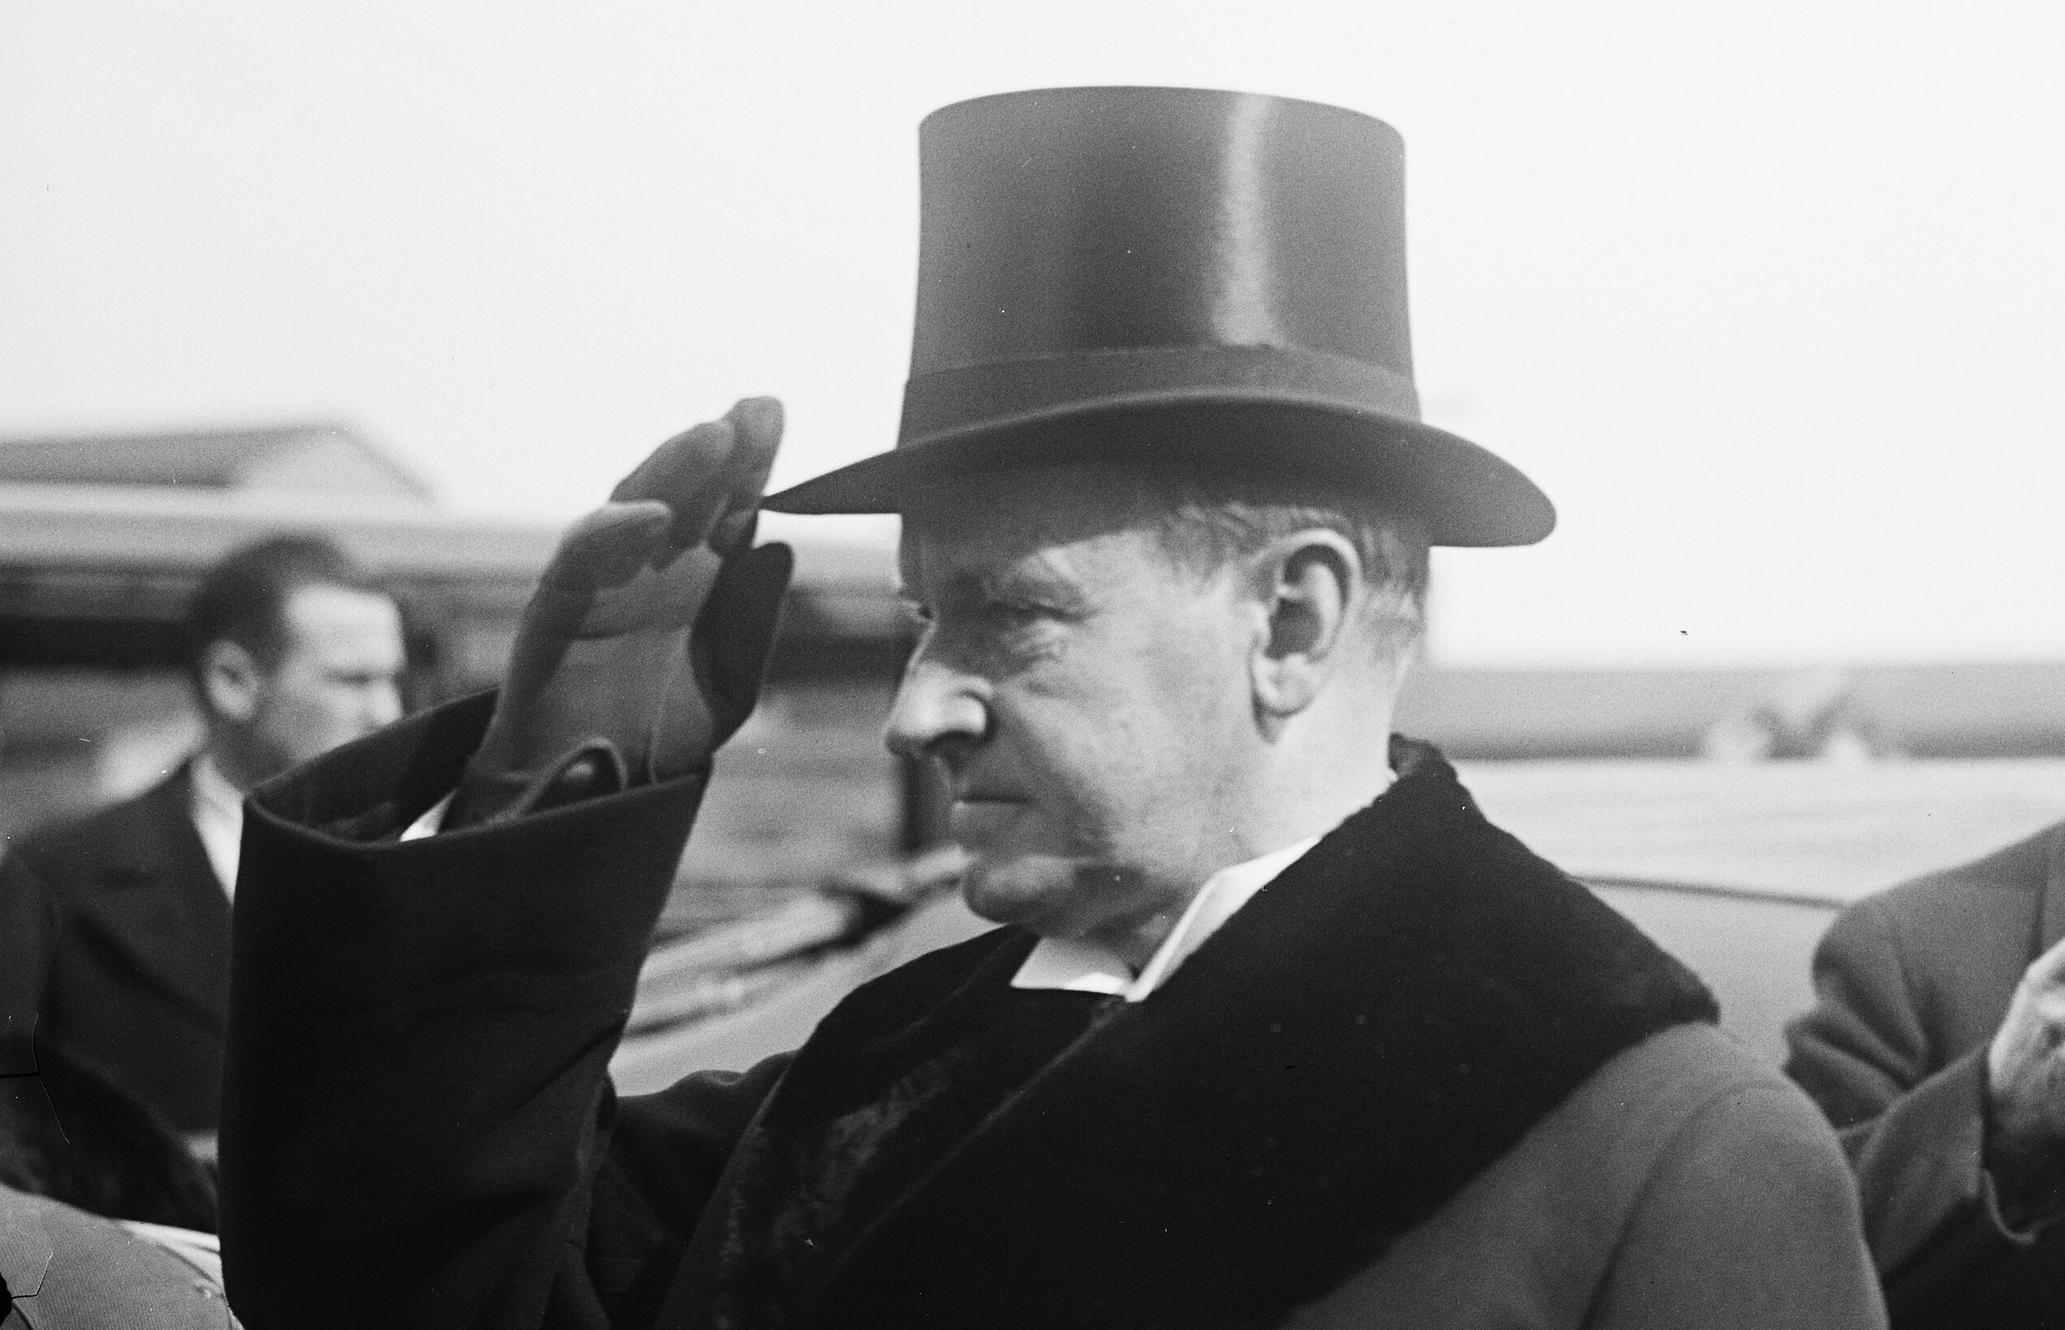
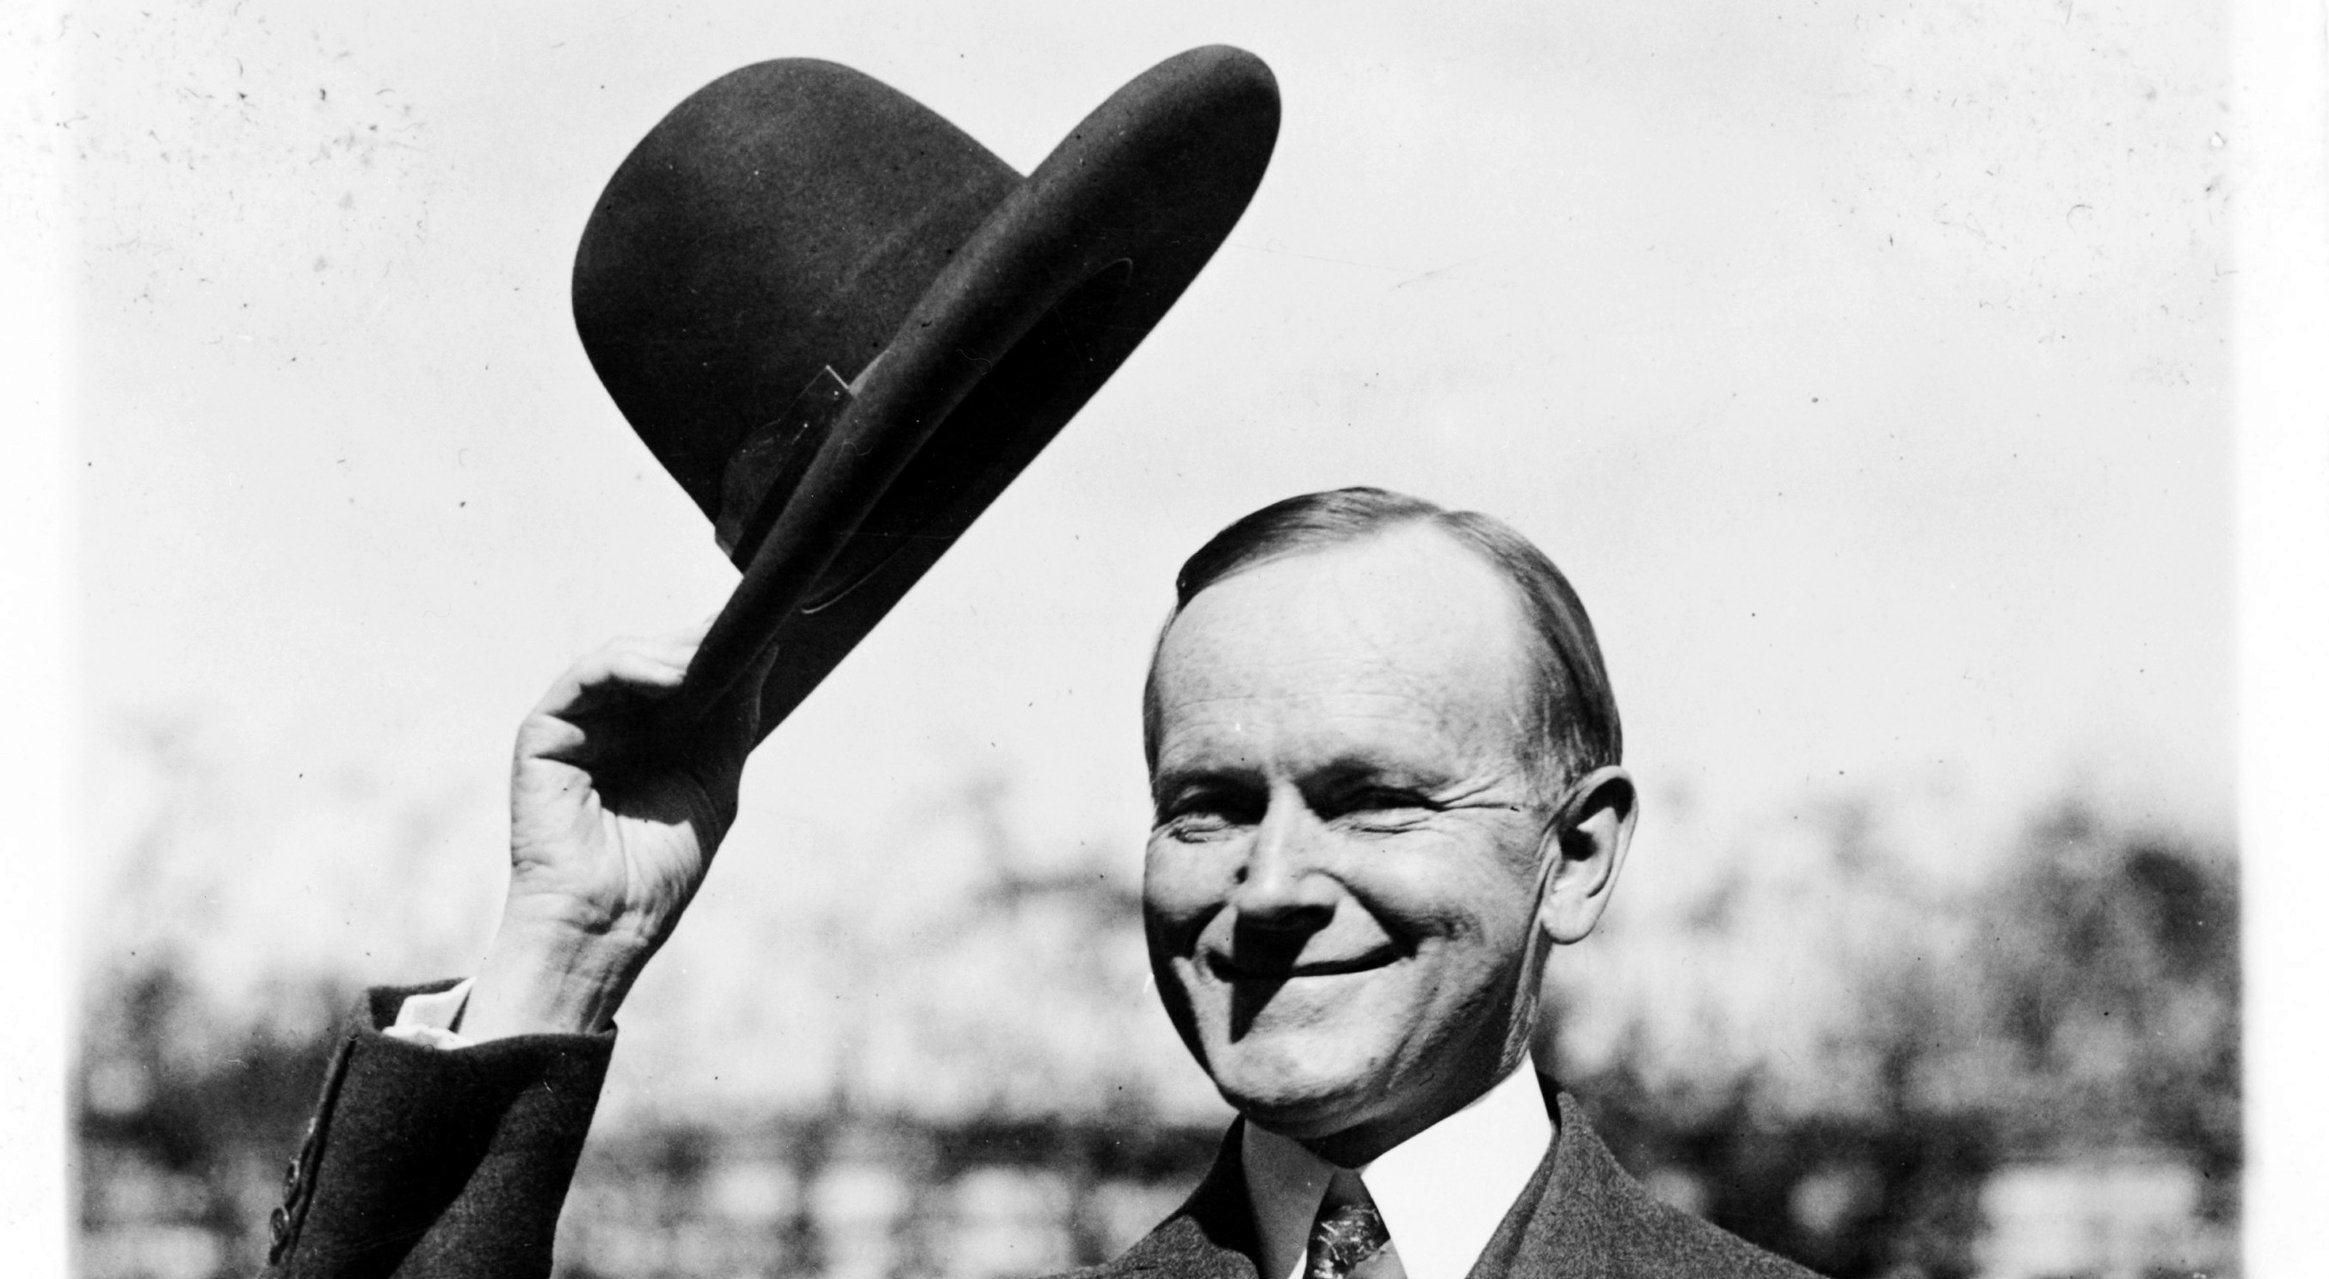
The publisher's weekend changes (10 and 11 October): Draft 5, for the press
Page 1: the box carries commonsense250.news/hear. Page 3: "hill to die on"
as a bold line; a poll on the two paragraph styles. Page 4: Coolidge smiling,
hat raised, 1924 (LoC). Page 5: ShiftAI at the foot of the Teach column.
Page 6: Greenstein in the byline; the mural below the article. Page 7:
spaced paragraphs, the SerenitySpaces aerial between the two ads, a second
starred students box (/earn). Page 8: spaced paragraphs, LIBERTY AND ETHICS,
the Whalers logo. The composer gains subheads, artBottom, an author override
and a page class; the fit check passes.

diff --git a/newspaper-production/editions/2026-10.js b/newspaper-production/editions/2026-10.js
@@ -64,7 +64,7 @@ export const edition = {
           { type: 'article', id: 'conservatarian', size: 's', art: false, kicker: 'Our Purpose', deck: false, grow: true, italic: true, class: 'small' },
           { type: 'box', class: 'stars', html:
             '<p class="byob">Old + new Media Managed by the YOUNGER or the BETTER (bYoB). Hear here!</p>' +
-            '<p class="byob-url">commonsense250.news/join</p>' +
+            '<p class="byob-url">commonsense250.news/hear</p>' +   // forwards to his video (vercel.json)
             '<p>CS 250 welcomes students, paid and volunteer. See p3.</p>' },
           { type: 'article', id: 'hartford-convention', size: 's', art: 'hartford-convention', artHeight: 1.2,
             kicker: 'Coming in 2027', deck: false },
@@ -90,7 +90,7 @@ export const edition = {
     // 3 ---------------------------------------------------------------------------
     {
       areas: ['ice ice imm imm', 'ice ice wha wha'],
-      rows: ['1fr', '3.0in'],
+      rows: ['1fr', '2.75in'],
       modules: [
         { type: 'article', area: 'ice', id: 'ice-deportations', span: 2, size: 'l', dropcap: false,
           caption: 'Federal agents on an ICE enforcement operation in New York, January 2025. ICE photo.', artHeight: 1.75, artPos: 'center 40%' },
@@ -99,14 +99,17 @@ export const edition = {
         // (screens) — and his own wording.
         { type: 'stack', area: 'imm', items: [
           { type: 'article', id: 'immigrant-families', span: 2, size: 'm', grow: true,
-            caption: 'New citizens take the oath, 2023. National Park Service photo.', artHeight: 1.45, artPos: 'center 55%' },
+            caption: 'New citizens take the oath, 2023. National Park Service photo.', artHeight: 1.15, artPos: 'center 55%' },
           { type: 'box', class: 'students', title: 'For Students',
-            art: [ { name: 'students-old', height: 1.5, caption: 'Then: newsboys and newsgirls, Hartford, 1909. Lewis Hine, National Archives.' },
-                   { name: 'students-new', height: 1.5, caption: 'Now: students at their laptops. Photo: Erikareuter, CC BY-SA 4.0.' } ],
+            art: [ { name: 'students-old', height: 1.1, caption: 'Then: newsboys and newsgirls, Hartford, 1909. Lewis Hine, National Archives.' },
+                   { name: 'students-new', height: 1.1, caption: 'Now: students at their laptops. Photo: Erikareuter, CC BY-SA 4.0.' } ],
             html:
             '<p class="big">Join CS250. Spread the word.</p>' +
             '<p>Your words, other influential people’s words. Internships, paid and volunteer, are now offered in media, marketing, finance, sales &amp; “influence”.</p>' +
-            '<p>CS250 staff collaborate each Friday evening. Join us! Email <b>andrew@web4guru.com</b>.</p>' },
+            '<p>CS250 staff collaborate each Friday evening. Join us! Email <b>andrew@web4guru.com</b>.</p>' +
+            // Publisher, 2026-10-10: pages 7 and 8 are set with space between
+            // paragraphs instead of indents, to see which readers prefer.
+            '<p class="poll"><b>A poll:</b> which layout is easier on the eyes, pages 4 and 5, or pages 7 and 8? Tell us at the same address.</p>' },
         ] },
         { type: 'ad', area: 'wha', key: 'aspire-schools' },
       ],
@@ -126,8 +129,8 @@ export const edition = {
             text: 'Constructs the Granite Railway, widely recognized as the first chartered, industrial or commercial line built for business. Its inaugural mission: carrying granite from the quarries to build the Bunker Hill Monument, on the fiftieth anniversary of the battle there.' },
           { years: '1875–76', name: 'Alexander Graham Bell', place: 'Massachusetts', art: 'ane-bell', artHeight: 2.0, caption: 'Illustration for Common Sense 250.',
             text: 'Working with Elisha Gray, the transplant from Scotland invents and then patents the telephone.' },
-          { years: '1926', name: 'Calvin Coolidge', place: 'Vermont', art: 'ane-coolidge', artHeight: 1.7, artPos: 'center 30%',
-            caption: 'Coolidge, 1927. Harris & Ewing, Library of Congress.',
+          { years: '1926', name: 'Calvin Coolidge', place: 'Vermont', art: 'ane-coolidge', artHeight: 1.7, artPos: 'center 20%',
+            caption: 'Coolidge, October 1924. National Photo Company, Library of Congress.',
             text: 'The Vermont native gives a most-American speech at Arlington for the Presidential Memorial Day address: “As a people we have not sought military glory. Because of our fortunate circumstances, such wars as we have waged have been for the purpose of securing conditions under which peace would be more permanent, liberty would be more secure, and justice would be more certain.”' },
           { years: '1975–76', name: 'Meldrim Thomson', place: 'New Hampshire', art: 'ane-axe-the-tax', artHeight: 1.7, caption: 'Illustration for Common Sense 250.',
             text: 'The Governor endorses the motto “Live Free or Die” for every New Hampshire license plate. It fits his long-standing minimalist creed, which appeared most prominently in his “Axe the Tax” platform.' },
@@ -150,8 +153,12 @@ export const edition = {
       areas: ['tea tea hom hom', 'tea tea ivy ivy'],
       rows: ['1fr', '3.3in'],
       modules: [
-        { type: 'article', area: 'tea', id: 'teach-to-the-tests', span: 2, size: 'l', art: 'teach-to-the-tests',
-          artHeight: 3.0, dropcap: true },
+        // Publisher, 2026-10-10: the space at the foot of this column goes to ShiftAI.
+        { type: 'stack', area: 'tea', items: [
+          { type: 'article', id: 'teach-to-the-tests', span: 2, size: 'l', art: 'teach-to-the-tests',
+            artHeight: 2.4, dropcap: true, grow: true },
+          { type: 'ad', key: 'shiftai', height: 1.75 },
+        ] },
         { type: 'article', area: 'hom', id: 'homelessness-in-connecticut', span: 2, size: 'm',
           caption: 'Tents outside Union Station, Washington, 2021. Photo: Elvert Barnes, CC BY-SA 2.0.', artHeight: 1.2 },
         { type: 'ad', area: 'ivy', key: 'ivy-bound' },
@@ -163,8 +170,10 @@ export const edition = {
       areas: ['soc soc wel wel', 'soc soc imp imp'],
       rows: ['1fr', '3.0in'],
       modules: [
-        { type: 'article', area: 'soc', id: 'social-security', span: 2, size: 'l', dropcap: true,
-          caption: 'Ben Shahn’s mural in the Social Security Building, Washington, 1940–42.', artHeight: 2.1 },
+        // Publisher, 2026-10-10: "add Greenstein to the byline of the first", and
+        // move one of the two pictures below its article.
+        { type: 'article', area: 'soc', id: 'social-security', span: 2, size: 'l', dropcap: true, author: 'Mark Stewart Greenstein',
+          artBottom: true, caption: 'Ben Shahn’s mural in the Social Security Building, Washington, 1940–42.', artHeight: 2.1 },
         { type: 'article', area: 'wel', id: 'welfare-for-whom', span: 2, size: 'm',
           caption: 'A food bank warehouse, 2021. U.S. Department of Agriculture photo.', artHeight: 1.6 },
         { type: 'ad', area: 'imp', key: 'ybh-eighth' },
@@ -172,26 +181,43 @@ export const edition = {
     },
 
     // 7 ---------------------------------------------------------------------------
+    // Publisher, 2026-10-10: space between paragraphs on 7 and 8 ("let's see if
+    // it's superior"); photos of SerenitySpaces bottom centre with the two ads
+    // either side; and a second starred box for students where there is room.
     {
-      areas: ['oth oth cou cou', 'ba1 ba1 ba2 ba2'],
+      class: 'spaced',
+      areas: ['oth oth cou cou', 'ba1 pic pic ba2'],
       rows: ['1fr', '2.7in'],
       modules: [
         { type: 'article', area: 'oth', id: 'other-half-of-affordability', span: 2, size: 'm', dropcap: true,
-          caption: 'Résumé in hand at a hiring fair, 2023. U.S. Air Force photo.', artHeight: 1.5 },
-        { type: 'article', area: 'cou', id: 'come-on-up', span: 2, size: 'm',
-          caption: 'Hartford in October. Photo: Quintin Soloviev, CC BY 4.0.', artHeight: 3.85, artPos: 'center 45%' },
-        { type: 'ad', area: 'ba1', key: 'bahamas-villas' },
-        { type: 'ad', area: 'ba2', key: 'bahamas-complex' },
+          caption: 'Résumé in hand at a hiring fair, 2023. U.S. Air Force photo.', artHeight: 1.15 },
+        { type: 'stack', area: 'cou', items: [
+          { type: 'article', id: 'come-on-up', span: 2, size: 'm', grow: true,
+            caption: 'Hartford in October. Photo: Quintin Soloviev, CC BY 4.0.', artHeight: 3.0, artPos: 'center 45%' },
+          { type: 'box', class: 'stars', html:
+            '<p class="byob">For Students, part II: Earn big $ with CS 250!</p>' +
+            '<p class="byob-url">commonsense250.news/earn</p>' +
+            '<p>Become a paid influencer via CS250. Influence for GOOD. Steer others to your favorite places, services, and goods.</p>' },
+        ] },
+        { type: 'stack', area: 'ba1', items: [ { type: 'ad', key: 'bahamas-villas', grow: true, class: 'narrow' } ] },
+        { type: 'box', area: 'pic', class: 'photos',
+          // The aerial he liked. The site has no pool or beach photograph of its
+          // own (the beach picture there is Getty stock), so the aerial runs alone.
+          art: [ { name: 'serenity-aerial', height: 2.3, caption: 'SerenitySpaces Bahamas from the air: four villas, the pool and the gardens, Freeport, Grand Bahama.' } ],
+          html: '' },
+        { type: 'stack', area: 'ba2', items: [ { type: 'ad', key: 'bahamas-complex', grow: true, class: 'narrow' } ] },
       ],
     },
 
     // 8 ---------------------------------------------------------------------------
     {
+      class: 'spaced',
       areas: ['wal wal wal sid', 'col col col col'],
       rows: ['1fr', 'auto'],
       modules: [
-        { type: 'article', area: 'wal', id: 'matt-walsh-reply', span: 3, size: 'l', dropcap: true,
-          caption: 'Henry Hintermeister, Foundation of the American Government, 1925.', artHeight: 2.0, artPos: 'center 55%' },
+        // Publisher, 2026-10-10: "for the pg 8 header, call it LIBERTY and ETHICS".
+        { type: 'article', area: 'wal', id: 'matt-walsh-reply', span: 3, size: 'l', dropcap: true, kicker: 'Liberty and Ethics',
+          caption: 'Henry Hintermeister, Foundation of the American Government, 1925.', artHeight: 1.6, artPos: 'center 55%' },
         { type: 'stack', area: 'sid', items: [
           { type: 'box', class: 'write-back', title: 'Write Back', html:
             '<p class="big">Every article in these pages invites a reply.</p>' +

diff --git a/newspaper-production/lib/ads.js b/newspaper-production/lib/ads.js
@@ -183,7 +183,11 @@ export const ads = {
   'whalers': {
     advertiser: 'NHL to Hartford',
     size: 'quarter',
-    image: 'whalers-hockey.jpg',  // FWA painting, early-1900s hockey; public domain (NARA 195788)
+    // Publisher, 2026-10-10: "we want an actual photo or at least an actual
+    // Hartford Whalers logo". The logo is the NHL's trademark; it runs in a
+    // fan campaign's advertisement at the publisher's direction (noted below).
+    // The old picture (FWA painting, NARA 195788) stays in art/ as whalers-hockey.jpg.
+    image: 'whalers-logo',
     headline: 'Whalers Here!',
     lines: [
       'Make Connecticut skate again.',
@@ -198,7 +202,8 @@ export const ads = {
       'or the ownership-share line struck. He is the publisher and it is his ' +
       'offer; it runs at his direction. This note is the record that he was told. ' +
       'URL corrected to NHLtoHartford.org (live: Whaler Land store) by the publisher ' +
-      '2026-10-04; the .com is a parked page.',
+      '2026-10-04; the .com is a parked page. The Whalers logo is a registered mark ' +
+      '(NHL / Carolina Hurricanes); it runs at the publisher\'s direction, 2026-10-10.',
   },
 
   // --- added at the publisher's direction, 2026-10-02 ---------------------------
@@ -217,6 +222,26 @@ export const ads = {
     // Copy from his own page, as he asked. The page's "$20-30 million" figure
     // is left out: a dollar promise in print is his to make, not ours to copy.
     authorization: { by: 'Mark S. Greenstein', on: '2026-10-02', note: "Publisher's own company; he asked for it" },
+  },
+
+  // Publisher, 2026-10-10: "With the space on Pg 5, please grab material for
+  // ShiftAI.club. 'MAKE your AI even BETTER!' Use my url at the bottom" (his
+  // referral link; the https:// dropped for print, as he said). It is his
+  // affiliate advertisement; the copy lines come from the site itself.
+  'shiftai': {
+    advertiser: 'ShiftAI.club',
+    size: 'eighth',
+    style: 'logo',
+    image: 'shiftai-logo',
+    headline: 'MAKE your AI even BETTER!',
+    // From shiftai.club, 2026-10-12: "AI Studios for Video, Images, Voice,
+    // Music & Chat" ... "Priced per use, and you see the cost before you create."
+    lines: [
+      'AI studios for video, images, voice, music and chat. Write it, pick the face, publish the same afternoon.',
+      'Priced per use, and you see the cost before you create.',
+    ],
+    url: 'shiftai.club/?ref=stewartforliberty',   // the plain address forwards to https and keeps the ref (checked 2026-10-12)
+    authorization: { by: 'Mark S. Greenstein', on: '2026-10-10', note: "Publisher's affiliate link; he asked for it" },
   },
 
   'ybh-eighth': {

diff --git a/newspaper-production/styles/edition.css b/newspaper-production/styles/edition.css
@@ -249,3 +249,36 @@ body, .body p, .dek, .ear, figcaption { font-variant-ligatures: common-ligatures
 .ad-pair { display: grid; grid-template-columns: 1fr 1fr; column-gap: .07in; align-self: stretch; margin: .06in 0 .02in; }
 .ad-pair img { width: 100%; height: .95in; object-fit: cover; display: block; }
 .si-ad .ad.listing .ad-art { height: 1.3in; }
+
+/* Pages 7 and 8: a space between paragraphs instead of an indent (publisher,
+   2026-10-10, to see which readers prefer; the poll is on page 3). */
+.page.spaced .body p { text-indent: 0; margin-bottom: .05in; }
+.page.spaced .body p.setoff { margin-left: .32in; }
+
+/* A subhead in the publisher's own words, set as a bold line, not capitals. */
+.body h4.sub { text-transform: none; letter-spacing: 0; font: 700 9.4pt/1.2 'Caslon'; margin: .06in 0 .03in; }
+
+/* A picture under the text (Social Security, page 6). */
+.art-bottom .art { margin: .08in 0 0; }
+.art-bottom figcaption { margin-bottom: 0; }
+
+/* Photographs between two advertisements (page 7, SerenitySpaces). */
+.box.photos { border: none; outline: none; padding: 0; display: flex; flex-direction: column; justify-content: center; }
+.box.photos .box-art { margin: 0; }
+.box.students .poll { font-size: 8.2pt; margin-top: .05in; padding-top: .05in; border-top: .5pt solid #000; }
+
+/* A text advertisement squeezed to one column (the Bahamas pair, page 7). */
+.si-ad .ad.narrow:not(.with-art) { padding: .1in .12in; }
+.si-ad .ad.narrow:not(.with-art) .ad-head { font-size: 17pt; margin: 0 0 .06in; }
+.si-ad .ad.narrow:not(.with-art) .ad-head::after { margin-top: .06in; }
+.si-ad .ad.narrow:not(.with-art) p { font-size: 8.4pt; line-height: 1.28; margin-bottom: .03in; }
+.si-ad .ad.narrow .ad-url { font-size: 6.8pt; letter-spacing: .08em; margin-top: .04in; }
+
+/* ShiftAI (page 5): wordmark small over the publisher's headline. */
+.si-ad .ad.logo { padding: .08in .2in; }
+.si-ad .ad.logo .ad-art { width: 1.5in; margin: .02in 0 .08in; }
+.si-ad .ad.logo .ad-head { font-size: 17pt; margin-bottom: .05in; }
+.si-ad .ad.logo p { font: 400 8.6pt/1.3 'Caslon'; letter-spacing: 0; margin-bottom: .03in; }
+.si-ad .ad.logo .ad-url { font-size: 7.2pt; margin-top: .04in; }
+/* The Whalers logo inside the compact page 8 ad. */
+.si-ad .ad.with-art.compact .ad-art { max-height: 1.5in; width: auto; max-width: 100%; object-fit: contain; }

diff --git a/newspaper-production/content/2026-09-articles.js b/newspaper-production/content/2026-09-articles.js
@@ -146,7 +146,11 @@ export const articlesV2 = [
   carriedOver('tariffs'),
   carriedOver('health-insurance'),
   carriedOver('social-security'),
-  joined('ice-deportations'),
+  // Publisher, 2026-10-10: «"hill to die on"?» is a bold line break, not the
+  // start of a paragraph.
+  { ...joined('ice-deportations'),
+    contentFull: joined('ice-deportations').contentFull.replace('A “hill to die on”?\n', 'A “hill to die on”?\n\n'),
+    subheads: ['A “hill to die on”?'] },
   carriedOver('town-hall'),
   carriedOver('axe-tax'),
   carriedOver('civics'),
